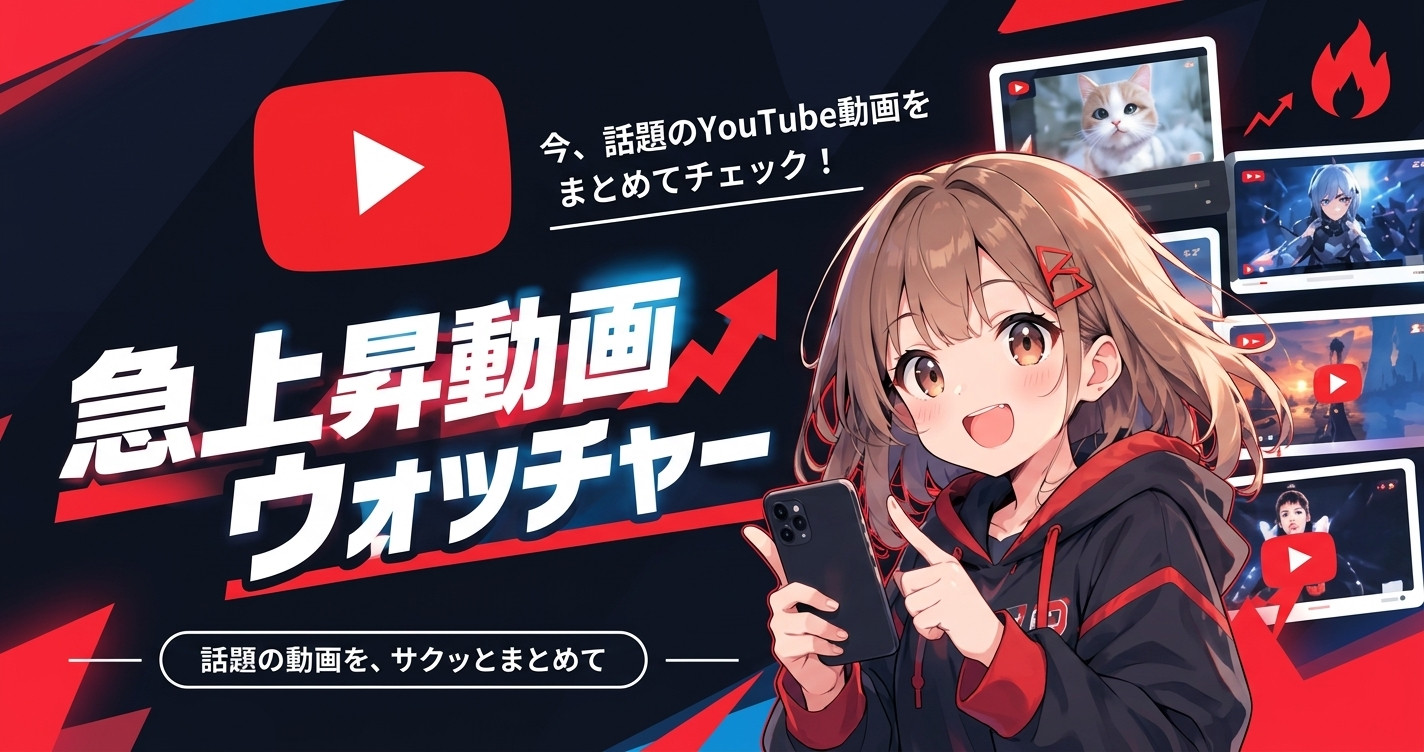
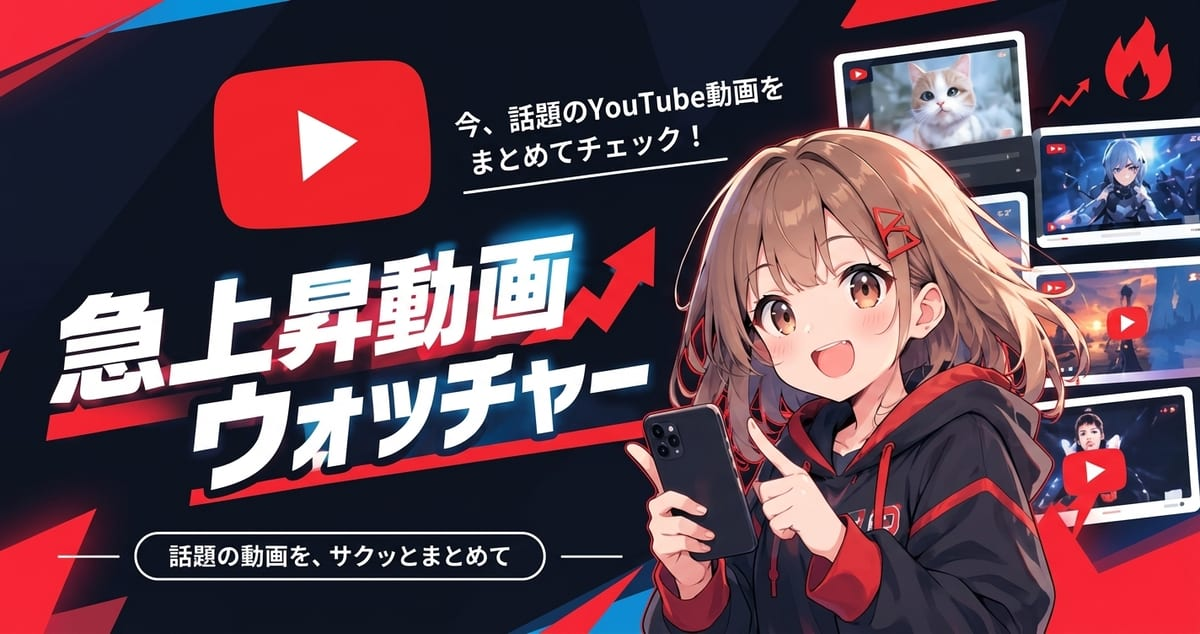
公開設定をサブドメイン trend.gamelab.website に合わせる
- README の LOLIPOP_SERVER_DIR を ./trend/ に、更新頻度の記述を 1 時間おきに
- OGP 画像を docs/ から site/ に移し、ビルドの対象に含める
  （docs/ は生成物なので、素材を置いたままにすると失われる可能性がある）
- OGP 画像だけ縮小の上限を 1200px にする（SNS の推奨サイズを下回らないように）
  結果 1424x752 / 631KB → 1200x634 / 111KB

Changed region(s): [[0.1542, 0.8391, 0.4317, 0.929]]

diff --git a/docs/assets/app.css b/docs/assets/app.css
@@ -1,2 +1,2 @@
-/* GameLab Radar — built 2026-09-15 */
+/* GameLab Radar — built 2026-09-16 */
 :root{--bg: #f7f7f8;--surface: #ffffff;--surface-2: #f0f0f2;--border: #e3e3e7;--border-strong: #cbcbd2;--text: #16161a;--text-muted: #6b6b75;--accent: #f4511e;--accent-dark: #c63d10;--accent-soft: #ffeee7;--up: #c63d10;--down: #2b6cb0;--gold: #c9971b;--radius: 12px;color-scheme:light}*{box-sizing:border-box}[hidden]{display:none!important}html{scroll-behavior:smooth}body{margin:0;background:var(--bg);color:var(--text);font-family:Noto Sans JP,system-ui,-apple-system,Segoe UI,Hiragino Sans,sans-serif;font-size:14px;line-height:1.6;-webkit-font-smoothing:antialiased}a{color:inherit;text-decoration:none}h1,h2,h3,p{margin:0}ol{list-style:none;margin:0;padding:0}button{font:inherit;color:inherit;cursor:pointer}.wrap{max-width:1280px;margin:0 auto;padding:0 18px}.header{position:sticky;top:0;z-index:20;background:#fffffff2;backdrop-filter:blur(10px);border-bottom:1px solid var(--border)}.header-inner{display:flex;align-items:center;gap:16px;height:54px}.logo{font-size:17px;font-weight:700;letter-spacing:-.02em;white-space:nowrap}.logo a{display:flex;align-items:center;gap:7px}.logo .mark{color:var(--accent);flex:0 0 auto}.logo .hit{color:var(--accent);font-weight:900}.header-tools{margin-left:auto;display:flex;align-items:center;gap:8px}.share-x{display:flex;align-items:center;justify-content:center;width:30px;height:30px;flex:none;border:1px solid var(--border);border-radius:999px;background:var(--surface-2);color:var(--text-muted);cursor:pointer}.share-x:hover{border-color:var(--accent);color:var(--accent);background:var(--surface)}.search{display:flex;align-items:center;gap:6px;background:var(--surface-2);border:1px solid var(--border);border-radius:999px;padding:0 12px;color:var(--text-muted);width:min(290px,44vw)}.search:focus-within{border-color:var(--accent);background:var(--surface)}.search input{flex:1;min-width:0;border:0;background:transparent;color:var(--text);padding:7px 0;font:inherit;outline:none}.tabs{display:flex;flex-wrap:wrap;gap:2px 0;padding-bottom:2px}.tabs button{border:0;background:transparent;padding:9px 13px 10px;font-size:13.5px;font-weight:700;color:var(--text-muted);white-space:nowrap;border-bottom:3px solid transparent}.tabs button:hover{color:var(--text);background:var(--surface-2)}.tabs button[aria-selected=true]{color:var(--accent);border-bottom-color:var(--accent)}main.wrap{padding-top:18px;padding-bottom:80px}.layout{display:grid;grid-template-columns:minmax(0,1fr) 300px;gap:26px;align-items:start}.col-main{min-width:0}.side{position:sticky;top:108px;display:flex;flex-direction:column;gap:12px}.mod{background:var(--surface);border:1px solid var(--border);border-radius:var(--radius);padding:13px 14px 14px}.mod-head{font-size:14px;font-weight:700}.mod-desc{margin-top:2px;font-size:11.5px;color:var(--text-muted)}.notice{background:#fff7e6;border:1px solid #f5d79a;color:#8a5b00;border-radius:8px;padding:8px 12px;font-size:12.5px;margin-bottom:14px}.rank-picker{margin-bottom:12px}.chips{display:flex;flex-wrap:wrap;gap:6px}.chips button{border:1px solid var(--border);background:var(--surface);border-radius:999px;padding:5px 13px;font-size:13px;font-weight:700;color:var(--text-muted);white-space:nowrap}.chips button:hover{border-color:var(--border-strong)}.chips button.active{background:var(--accent);border-color:var(--accent);color:#fff}.rank-desc{margin-top:7px;font-size:12.5px;color:var(--text-muted)}.toolbar{display:flex;align-items:center;flex-wrap:wrap;gap:10px;margin-bottom:12px}.meta{font-size:12.5px;color:var(--text-muted)}.new-data-btn{font-size:12.5px;font-weight:700;color:var(--accent-dark);background:var(--accent-soft);border:1px solid var(--accent);border-radius:999px;padding:4px 12px;cursor:pointer;animation:newDataPulse 1.8s ease-in-out infinite}@keyframes newDataPulse{0%,to{opacity:1}50%{opacity:.55}}.controls{margin-left:auto}.seg{display:flex;border:1px solid var(--border);border-radius:999px;overflow:hidden;background:var(--surface)}.seg button{border:0;background:transparent;padding:6px 12px;font-size:12.5px;font-weight:700;color:var(--text-muted);line-height:1.2}.seg button:hover{background:var(--surface-2)}.seg button.active{background:var(--accent);color:#fff}.list{display:flex;flex-direction:column;gap:8px}.item{display:grid;grid-template-columns:52px 168px 1fr;gap:12px;align-items:start;background:var(--surface);border:1px solid var(--border);border-radius:var(--radius);padding:10px 14px 10px 8px;transition:border-color .15s,box-shadow .15s}.item:hover{border-color:var(--border-strong);box-shadow:0 4px 14px #16161a12}.rank{display:flex;flex-direction:column;align-items:center;gap:1px;padding-top:2px;min-width:0}.rank .num{font-size:24px;font-weight:900;line-height:1.1;letter-spacing:-.04em;font-variant-numeric:tabular-nums}.item.top1 .rank .num{color:var(--gold)}.item.top2 .rank .num,.item.top3 .rank .num{color:#8a8a93}.delta{display:block;font-size:11px;font-weight:700;line-height:1.3;color:var(--text-muted)}.delta.up{color:var(--up)}.delta.down{color:var(--down)}.delta.new{color:#fff;background:var(--accent);border-radius:4px;padding:0 5px;font-size:10px;letter-spacing:0}.thumb{position:relative;display:block;aspect-ratio:16 / 9;background:var(--surface-2);border-radius:8px;overflow:hidden}.thumb img{width:100%;height:100%;object-fit:cover;display:block}.dur{position:absolute;right:5px;bottom:5px;background:#000c;color:#fff;border-radius:4px;padding:1px 5px;font-size:11px;font-weight:700;font-variant-numeric:tabular-nums}.live-tag{position:absolute;right:5px;bottom:5px;display:flex;align-items:center;gap:4px;background:#d90429;color:#fff;border-radius:4px;padding:1px 6px;font-size:11px;font-weight:700;letter-spacing:.02em}.live-tag:before{content:"";width:6px;height:6px;border-radius:50%;background:#fff}.live-dot{display:inline-block;width:8px;height:8px;border-radius:50%;background:#d90429;margin-right:6px;vertical-align:middle}.live-list{display:flex;flex-direction:column;gap:8px;margin-top:9px}.live-item{display:flex;align-items:center;gap:8px}.live-item img{width:68px;aspect-ratio:16 / 9;object-fit:cover;border-radius:5px;flex:0 0 auto}.live-item .info{min-width:0}.live-item .t{font-size:12px;font-weight:700;line-height:1.35;display:-webkit-box;-webkit-line-clamp:2;-webkit-box-orient:vertical;overflow:hidden}.live-item:hover .t{color:var(--accent-dark)}.live-item .m{font-size:11px;color:var(--text-muted);overflow:hidden;text-overflow:ellipsis;white-space:nowrap}.mod-link{margin-top:10px;width:100%;border:1px solid var(--border);background:var(--surface-2);border-radius:7px;padding:6px;font-size:11.5px;font-weight:700;color:var(--text-muted)}.mod-link:hover{background:var(--accent-soft);border-color:var(--accent);color:var(--accent-dark)}.short-tag{position:absolute;left:5px;top:5px;background:var(--accent);color:#fff;border-radius:4px;padding:1px 6px;font-size:10.5px;font-weight:700}.body{min-width:0;display:flex;flex-direction:column;gap:5px}.title{font-size:15px;font-weight:700;line-height:1.45;display:-webkit-box;-webkit-line-clamp:2;-webkit-box-orient:vertical;overflow:hidden}.title:hover{color:var(--accent-dark)}.ch{display:flex;align-items:center;gap:6px;font-size:12.5px;color:var(--text-muted);min-width:0}.ch img{width:18px;height:18px;border-radius:50%;flex:0 0 auto}.ch .name{overflow:hidden;text-overflow:ellipsis;white-space:nowrap}.ch .subs{flex:0 0 auto;opacity:.8}.stats{display:flex;flex-wrap:wrap;align-items:center;gap:6px;font-size:12px;color:var(--text-muted)}.stat{background:var(--surface-2);border-radius:5px;padding:1px 7px;white-space:nowrap;font-variant-numeric:tabular-nums}.stat b{color:var(--text);font-weight:700}.stat.key{background:var(--accent-soft);color:var(--accent-dark)}.stat.key b{color:var(--accent-dark)}.ch-list{display:flex;flex-direction:column;margin-top:8px}.ch-item{display:flex;align-items:center;gap:9px;padding:6px 0;border-top:1px solid var(--border)}.ch-item:first-child{border-top:0}.ch-item .r{font-size:13px;font-weight:900;color:var(--text-muted);width:1.5em;text-align:center;flex:0 0 auto;font-variant-numeric:tabular-nums}.ch-item.top1 .r,.ch-item.top2 .r,.ch-item.top3 .r{color:var(--accent)}.ch-item .info{min-width:0;flex:1}.ch-item .nm{font-size:12.5px;font-weight:700;overflow:hidden;text-overflow:ellipsis;white-space:nowrap}.ch-item .sub{font-size:11px;color:var(--text-muted)}.ch-item:hover .nm{color:var(--accent-dark)}.kw-cloud{display:flex;flex-wrap:wrap;gap:5px;margin-top:9px}.kw{border:1px solid var(--border);background:var(--surface-2);border-radius:999px;padding:3px 9px;font-size:12px;font-weight:700;color:var(--text-muted)}.kw:hover{background:var(--accent-soft);border-color:var(--accent);color:var(--accent-dark)}.kw .n{font-weight:500;opacity:.7;margin-left:3px}.bottom{margin-top:42px}.sec-head{margin-bottom:12px}.sec-head h2{font-size:17px;font-weight:700}.sec-desc{font-size:12.5px;color:var(--text-muted);margin-top:3px}.digest-grid{display:grid;grid-template-columns:repeat(auto-fill,minmax(290px,1fr));gap:10px}.digest{background:var(--surface);border:1px solid var(--border);border-radius:var(--radius);padding:11px 13px 12px}.digest-head{display:flex;align-items:baseline;gap:7px;margin-bottom:7px}.digest-head button{border:0;background:transparent;padding:0;font-size:14px;font-weight:700}.digest-head button:hover{color:var(--accent)}.digest-head .n{font-size:11.5px;color:var(--text-muted)}.digest ol{display:flex;flex-direction:column;gap:7px}.digest li{display:flex;gap:8px;align-items:center}.digest .r{font-size:12px;font-weight:900;color:var(--text-muted);width:1.2em;flex:0 0 auto}.digest img{width:66px;aspect-ratio:16 / 9;object-fit:cover;border-radius:5px;flex:0 0 auto}.digest .t{font-size:12px;font-weight:500;line-height:1.4;display:-webkit-box;-webkit-line-clamp:2;-webkit-box-orient:vertical;overflow:hidden}.digest a:hover .t{color:var(--accent-dark)}.digest .c{font-size:11px;color:var(--text-muted);overflow:hidden;text-overflow:ellipsis;white-space:nowrap}.bars{background:var(--surface);border:1px solid var(--border);border-radius:var(--radius);padding:14px 16px;display:flex;flex-direction:column;gap:8px}.bar-row{display:grid;grid-template-columns:8em 1fr 6em;align-items:center;gap:10px;font-size:12.5px}.bar-row .lbl{font-weight:700;overflow:hidden;text-overflow:ellipsis;white-space:nowrap}.bar-track{background:var(--surface-2);border-radius:999px;height:10px;overflow:hidden}.bar-fill{height:100%;border-radius:999px;background:linear-gradient(90deg,#ff9f6b,var(--accent))}.bar-row .val{text-align:right;color:var(--text-muted);font-variant-numeric:tabular-nums}.long-list{display:grid;grid-template-columns:repeat(auto-fill,minmax(320px,1fr));gap:8px}.long-item{display:flex;align-items:center;gap:10px;background:var(--surface);border:1px solid var(--border);border-radius:10px;padding:8px 12px 8px 8px}.long-item img{width:76px;aspect-ratio:16 / 9;object-fit:cover;border-radius:6px;flex:0 0 auto}.long-item .info{min-width:0}.long-item .t{font-size:12.5px;font-weight:700;line-height:1.4;display:-webkit-box;-webkit-line-clamp:2;-webkit-box-orient:vertical;overflow:hidden}.long-item:hover .t{color:var(--accent-dark)}.long-item .m{font-size:11px;color:var(--text-muted)}.long-item .badge{background:var(--accent-soft);color:var(--accent-dark);border-radius:5px;padding:0 6px;font-weight:700;margin-right:5px}.more-btn{display:block;width:100%;margin-top:14px;padding:12px;border:1px solid var(--border);border-radius:var(--radius);background:var(--surface);font-size:13px;font-weight:700;color:var(--text-muted)}.more-btn:hover{background:var(--surface-2);border-color:var(--border-strong)}.empty{padding:48px 0;text-align:center;color:var(--text-muted);font-size:13px}.footer{border-top:1px solid var(--border);background:var(--surface);padding:22px 0 34px;font-size:12px;color:var(--text-muted)}.footer p{margin-bottom:6px}.footer .copy{margin-top:12px}.to-top{position:fixed;right:18px;bottom:18px;width:42px;height:42px;border-radius:50%;border:1px solid var(--border);background:var(--surface);color:var(--text-muted);font-size:16px;box-shadow:0 2px 10px #0000001f;z-index:30}.to-top:hover{background:var(--accent);border-color:var(--accent);color:#fff}@media (max-width: 1080px){.layout{grid-template-columns:minmax(0,1fr)}.side{position:static}}@media (max-width: 760px){.tabs{flex-wrap:nowrap;overflow-x:auto;scrollbar-width:none}.tabs::-webkit-scrollbar{display:none}.bar-row{grid-template-columns:5.5em 1fr 4.5em;font-size:11.5px}.header-inner{height:auto;padding:8px 0;flex-wrap:wrap;gap:8px}.logo{margin-left:6px}.header-tools{width:90%;margin:0 auto}.search{width:100%}.item{grid-template-columns:40px 124px 1fr;gap:9px;padding:9px 10px 9px 4px}.rank .num{font-size:19px}.title{font-size:13.5px}.controls{width:100%;margin-left:0}}

diff --git a/docs/assets/app.js b/docs/assets/app.js
@@ -1,2 +1,2 @@
-/* GameLab Radar — built 2026-09-15 */
+/* GameLab Radar — built 2026-09-16 */
 (()=>{const s=e=>document.querySelector(e),x="ytg:state",I="YouTube \u306E\u6025\u4E0A\u6607\u30E9\u30F3\u30AD\u30F3\u30B0\u3092\u3001\u30AB\u30C6\u30B4\u30EA\u5225\u30FB\u4F38\u3073\u9806\u30FB\u9AD8\u8A55\u4FA1\u7387\u306A\u3069\u3001\u3044\u308D\u3044\u308D\u306A\u5207\u308A\u53E3\u3067\u307E\u3068\u3081\u3066\u3044\u307E\u3059\u3002";let i={videos:[],channels:[],categories:[],rankings:[]},$=30,L=0,E=null;function V(e){const t=Math.floor((Date.now()-e.getTime())/6e4);if(t<1)return"\u305F\u3063\u305F\u4ECA";if(t<60)return`${t}\u5206\u524D`;const n=Math.floor(t/60);return n<24?`${n}\u6642\u9593\u524D`:`${e.getMonth()+1}/${e.getDate()}`}function M(){i.updatedAt&&(s("#meta").textContent=`${L} \u4EF6 \u30FB \u6700\u7D42\u66F4\u65B0 ${V(new Date(i.updatedAt))}`)}const m=Object.assign({cat:"all",rank:"trending",len:"all",q:""},_(x,{}));function _(e,t){var n;try{return(n=JSON.parse(localStorage.getItem(e)))!=null?n:t}catch{return t}}function j(){try{localStorage.setItem(x,JSON.stringify(m))}catch{}}function p(e){return e>=1e8?`${(e/1e8).toFixed(e>=1e9?0:1)}\u5104`:e>=1e4?`${(e/1e4).toFixed(e>=1e6?0:1)}\u4E07`:e.toLocaleString("ja-JP")}function z(e){const t=Math.floor(e/3600),n=Math.floor(e%3600/60),a=e%60,o=c=>String(c).padStart(2,"0");return t?`${t}:${o(n)}:${o(a)}`:`${n}:${o(a)}`}function T(e){const t=(Date.now()-new Date(e).getTime())/1e3;return t<3600?`${Math.max(1,Math.floor(t/60))}\u5206\u524D`:t<86400?`${Math.floor(t/3600)}\u6642\u9593\u524D`:`${Math.floor(t/86400)}\u65E5\u524D`}const S={trending:(e,t)=>(e.rank||999)-(t.rank||999)||t.views-e.views,growth:(e,t)=>t.viewsPerHour-e.viewsPerHour,viewers:(e,t)=>(t.concurrentViewers||0)-(e.concurrentViewers||0),views:(e,t)=>t.views-e.views,like:(e,t)=>t.likeRate-e.likeRate,comment:(e,t)=>t.comments-e.comments,fresh:(e,t)=>new Date(t.publishedAt)-new Date(e.publishedAt)};function G(){const e=m.q.trim().toLowerCase(),t=i.likeRateMinViews||1e4;return i.videos.filter(a=>!(m.cat!=="all"&&!a.categories.includes(m.cat)||m.len==="short"&&!a.isShort||m.len==="long"&&a.isShort||m.rank==="like"&&a.views<t||m.rank==="viewers"&&!a.isLive||e&&!`${a.title} ${a.channel}`.toLowerCase().includes(e))).sort(S[m.rank]||S.trending)}function O(e){const t=m.rank,n=[...e.isLive?[{id:"viewers",html:`<b>${p(e.concurrentViewers)}</b> \u4EBA\u304C\u8996\u8074\u4E2D`}]:[],{id:"views",html:`\u518D\u751F <b>${p(e.views)}</b>`},{id:"growth",html:`<b>+${p(e.viewsPerHour)}</b>/\u6642`},{id:"like",html:`\u9AD8\u8A55\u4FA1\u7387 <b>${e.likeRate}%</b>`},{id:"comment",html:`\u30B3\u30E1\u30F3\u30C8 <b>${p(e.comments)}</b>`},{id:"fresh",html:T(e.publishedAt)}];return n.sort((a,o)=>a.id===t?-1:o.id===t?1:0),n.map(a=>`<span class="stat${a.id===t?" key":""}">${a.html}</span>`).join("")}function F(e,t){const n=document.createElement("li");n.className="item"+(t<3?` top${t+1}`:"");const a=`https://www.youtube.com/watch?v=${e.id}`,o=document.createElement("div");o.className="rank";let c="";e.isNew?c='<span class="delta new">NEW</span>':e.rankDelta>0?c=`<span class="delta up">\u25B2${e.rankDelta}</span>`:e.rankDelta<0?c=`<span class="delta down">\u25BC${Math.abs(e.rankDelta)}</span>`:c='<span class="delta">\u2014</span>',o.innerHTML=`<span class="num">${t+1}</span>${c}`;const r=document.createElement("a");r.className="thumb",r.href=a,r.target="_blank",r.rel="noopener noreferrer";const d=document.createElement("img");if(d.src=e.thumb,d.alt="",d.loading="lazy",d.decoding="async",r.appendChild(d),e.isLive){const l=document.createElement("span");l.className="live-tag",l.textContent=e.liveStartedAt?`LIVE ${T(e.liveStartedAt).replace("\u524D","")}`:"LIVE",r.appendChild(l)}else if(e.durationSec){const l=document.createElement("span");l.className="dur",l.textContent=z(e.durationSec),r.appendChild(l)}if(e.isShort){const l=document.createElement("span");l.className="short-tag",l.textContent="\u30B7\u30E7\u30FC\u30C8",r.appendChild(l)}const h=document.createElement("div");h.className="body";const u=document.createElement("a");u.className="title",u.href=a,u.target="_blank",u.rel="noopener noreferrer",u.textContent=e.title,u.title=e.title;const f=document.createElement("a");if(f.className="ch",f.href=`https://www.youtube.com/channel/${e.channelId}`,f.target="_blank",f.rel="noopener noreferrer",e.channelThumb){const l=document.createElement("img");l.src=e.channelThumb,l.alt="",l.loading="lazy",f.appendChild(l)}const b=document.createElement("span");if(b.className="name",b.textContent=e.channel,f.appendChild(b),e.subscribers){const l=document.createElement("span");l.className="subs",l.textContent=`\u767B\u9332 ${p(e.subscribers)}`,f.appendChild(l)}const g=document.createElement("div");return g.className="stats",g.innerHTML=O(e),h.append(u,f,g),n.append(o,r,h),n}function A(){const e=s("#tabs");e.innerHTML="";for(const t of i.categories){const n=document.createElement("button");n.type="button",n.setAttribute("role","tab"),n.setAttribute("aria-selected",String(m.cat===t.id)),n.textContent=t.label,n.addEventListener("click",()=>{w({cat:t.id}),window.scrollTo({top:0,behavior:"smooth"})}),e.appendChild(n)}}function D(){var t;const e=s("#rankChips");e.innerHTML="";for(const n of i.rankings){const a=document.createElement("button");a.type="button",a.className=m.rank===n.id?"active":"",a.textContent=n.label,a.addEventListener("click",()=>w({rank:n.id})),e.appendChild(a)}s("#rankDesc").textContent=((t=i.rankings.find(n=>n.id===m.rank))==null?void 0:t.desc)||""}function U(){const e=s("#channelList");e.innerHTML="";for(const t of(i.channels||[]).slice(0,10)){const n=document.createElement("li");n.className="ch-item"+(t.rank<=3?` top${t.rank}`:"");const a=document.createElement("a");a.href=`https://www.youtube.com/channel/${t.id}`,a.target="_blank",a.rel="noopener noreferrer",a.className="info";const o=document.createElement("div");o.className="nm",o.textContent=t.title;const c=document.createElement("div");c.className="sub",c.textContent=`\u6025\u4E0A\u6607 ${t.count} \u672C \u30FB \u5408\u8A08 ${p(t.views)} \u56DE\u518D\u751F`,a.append(o,c);const r=document.createElement("span");r.className="r",r.textContent=t.rank,n.append(r,a),e.appendChild(n)}s("#channelMod").hidden=!(i.channels||[]).length}function Y(){const e=i.live||[],t=s("#liveList");t.innerHTML="";for(const n of e.slice(0,6)){const a=document.createElement("li");a.className="live-item";const o=document.createElement("a");o.href=`https://www.youtube.com/watch?v=${n.id}`,o.target="_blank",o.rel="noopener noreferrer",o.style.display="contents";const c=document.createElement("img");c.src=n.thumb,c.alt="",c.loading="lazy";const r=document.createElement("div");r.className="info";const d=document.createElement("div");d.className="t",d.textContent=n.title;const h=document.createElement("div");h.className="m",h.textContent=`${p(n.concurrentViewers)} \u4EBA\u304C\u8996\u8074\u4E2D \u30FB ${n.channel}`,r.append(d,h),o.append(c,r),a.appendChild(o),t.appendChild(a)}s("#liveMod").hidden=!e.length}function J(){const e=s("#keywordCloud");e.innerHTML="";const t=i.keywords||[];for(const n of t){const a=document.createElement("button");a.type="button",a.className="kw",a.innerHTML=`${n.word}<span class="n">${n.count}</span>`,a.addEventListener("click",()=>{s("#q").value=n.word,w({q:n.word}),window.scrollTo({top:0,behavior:"smooth"})}),e.appendChild(a)}s("#keywordMod").hidden=!t.length}function K(){var n;const e=s("#digestGrid");e.innerHTML="";const t=i.digest||[];for(const a of t){const o=document.createElement("article");o.className="digest";const c=document.createElement("div");c.className="digest-head";const r=document.createElement("button");r.type="button",r.textContent=a.label,r.addEventListener("click",()=>{w({cat:a.id}),window.scrollTo({top:0,behavior:"smooth"})});const d=document.createElement("span");d.className="n",d.textContent=`${((n=i.categories.find(u=>u.id===a.id))==null?void 0:n.count)||a.videos.length} \u672C`,c.append(r,d);const h=document.createElement("ol");a.videos.forEach((u,f)=>{const b=document.createElement("li"),g=document.createElement("span");g.className="r",g.textContent=f+1;const l=document.createElement("a");l.href=`https://www.youtube.com/watch?v=${u.id}`,l.target="_blank",l.rel="noopener noreferrer",l.style.display="contents";const k=document.createElement("img");k.src=u.thumb,k.alt="",k.loading="lazy";const C=document.createElement("div");C.style.minWidth="0";const y=document.createElement("div");y.className="t",y.textContent=u.title;const N=document.createElement("div");N.className="c",N.textContent=`${u.channel} \u30FB ${p(u.views)} \u56DE`,C.append(y,N),l.append(k,C),b.append(g,l),h.appendChild(b)}),o.append(c,h),e.appendChild(o)}s("#digestSection").hidden=!t.length}function W(){var a;const e=s("#strengthBars");e.innerHTML="";const t=((a=i.stats)==null?void 0:a.categoryStrength)||[],n=Math.max(1,...t.map(o=>o.viewsPerHour));for(const o of t){const c=document.createElement("div");c.className="bar-row";const r=document.createElement("span");r.className="lbl",r.textContent=o.label;const d=document.createElement("div");d.className="bar-track";const h=document.createElement("div");h.className="bar-fill",h.style.width=`${Math.max(3,Math.round(o.viewsPerHour/n*100))}%`,d.appendChild(h);const u=document.createElement("span");u.className="val",u.textContent=`+${p(o.viewsPerHour)}/\u6642`,c.append(r,d,u),e.appendChild(c)}s("#strengthSection").hidden=!t.length}function X(){const e=s("#longList");e.innerHTML="";const t=i.longRunners||[];for(const n of t){const a=document.createElement("li");a.className="long-item";const o=document.createElement("a");o.href=`https://www.youtube.com/watch?v=${n.id}`,o.target="_blank",o.rel="noopener noreferrer",o.style.display="contents";const c=document.createElement("img");c.src=n.thumb,c.alt="",c.loading="lazy";const r=document.createElement("div");r.className="info";const d=document.createElement("div");d.className="t",d.textContent=n.title;const h=document.createElement("div");h.className="m",h.innerHTML=`<span class="badge">${n.appearances} \u56DE\u30E9\u30F3\u30AF\u30A4\u30F3</span>${n.channel} \u30FB ${p(n.views)} \u56DE\u518D\u751F`,r.append(d,h),o.append(c,r),a.appendChild(o),e.appendChild(a)}s("#longSection").hidden=!t.length}function v(){const e=G(),t=e.slice(0,$),n=s("#list");n.innerHTML="",t.forEach((o,c)=>n.appendChild(F(o,c))),s("#empty").hidden=e.length>0;const a=s("#more");a.hidden=e.length<=t.length,a.textContent=`\u3082\u3063\u3068\u898B\u308B\uFF08\u6B8B\u308A ${e.length-t.length} \u4EF6\uFF09`,L=e.length,M()}function w(e){Object.assign(m,e),$=30,j(),A(),D(),v()}function H(){s("#sampleNotice").hidden=!i.isSample,i.categories.some(e=>e.id===m.cat)||(m.cat="all"),i.rankings.some(e=>e.id===m.rank)||(m.rank="trending"),A(),D(),Y(),U(),J(),K(),W(),X(),v()}async function q(){return(await fetch(`data/rankings.json?t=${Date.now()}`)).json()}async function B(){if(!(E||document.hidden))try{const e=await q();e.updatedAt&&e.updatedAt!==i.updatedAt&&(E=e,s("#newData").hidden=!1)}catch{}}async function Q(){s("#year").textContent=new Date().getFullYear(),s("#q").value=m.q;for(const e of document.querySelectorAll("#lenSeg button"))e.classList.toggle("active",e.dataset.len===m.len);try{i=await q()}catch{s("#meta").textContent="\u30C7\u30FC\u30BF\u3092\u8AAD\u307F\u8FBC\u3081\u307E\u305B\u3093\u3067\u3057\u305F\u3002";return}H(),setInterval(M,3e4),setInterval(B,18e4)}s("#q").addEventListener("input",(()=>{let e;return t=>{clearTimeout(e),e=setTimeout(()=>w({q:t.target.value}),180)}})());for(const e of document.querySelectorAll("#lenSeg button"))e.addEventListener("click",()=>{for(const t of document.querySelectorAll("#lenSeg button"))t.classList.toggle("active",t===e);w({len:e.dataset.len})});s("#liveMore").addEventListener("click",()=>{w({cat:"live",rank:"viewers"}),window.scrollTo({top:0,behavior:"smooth"})}),s("#more").addEventListener("click",()=>{$+=30,v()}),document.addEventListener("keydown",e=>{e.key==="/"&&document.activeElement!==s("#q")&&(e.preventDefault(),s("#q").focus())}),s("#newData").addEventListener("click",()=>{E&&(i=E,E=null,s("#newData").hidden=!0,H())}),s("#shareX").addEventListener("click",()=>{const e="https://twitter.com/intent/tweet?text="+encodeURIComponent(I)+"&url="+encodeURIComponent(location.origin+"/"),t=600,n=480,a=Math.round((window.screen.width-t)/2),o=Math.round((window.screen.height-n)/2);window.open(e,"share",`width=${t},height=${n},left=${a},top=${o},noopener,noreferrer`)});const R=s("#toTop"),P=()=>R.hidden=window.scrollY<500;window.addEventListener("scroll",P,{passive:!0}),P(),R.addEventListener("click",()=>window.scrollTo({top:0,behavior:"smooth"})),Q()})();
